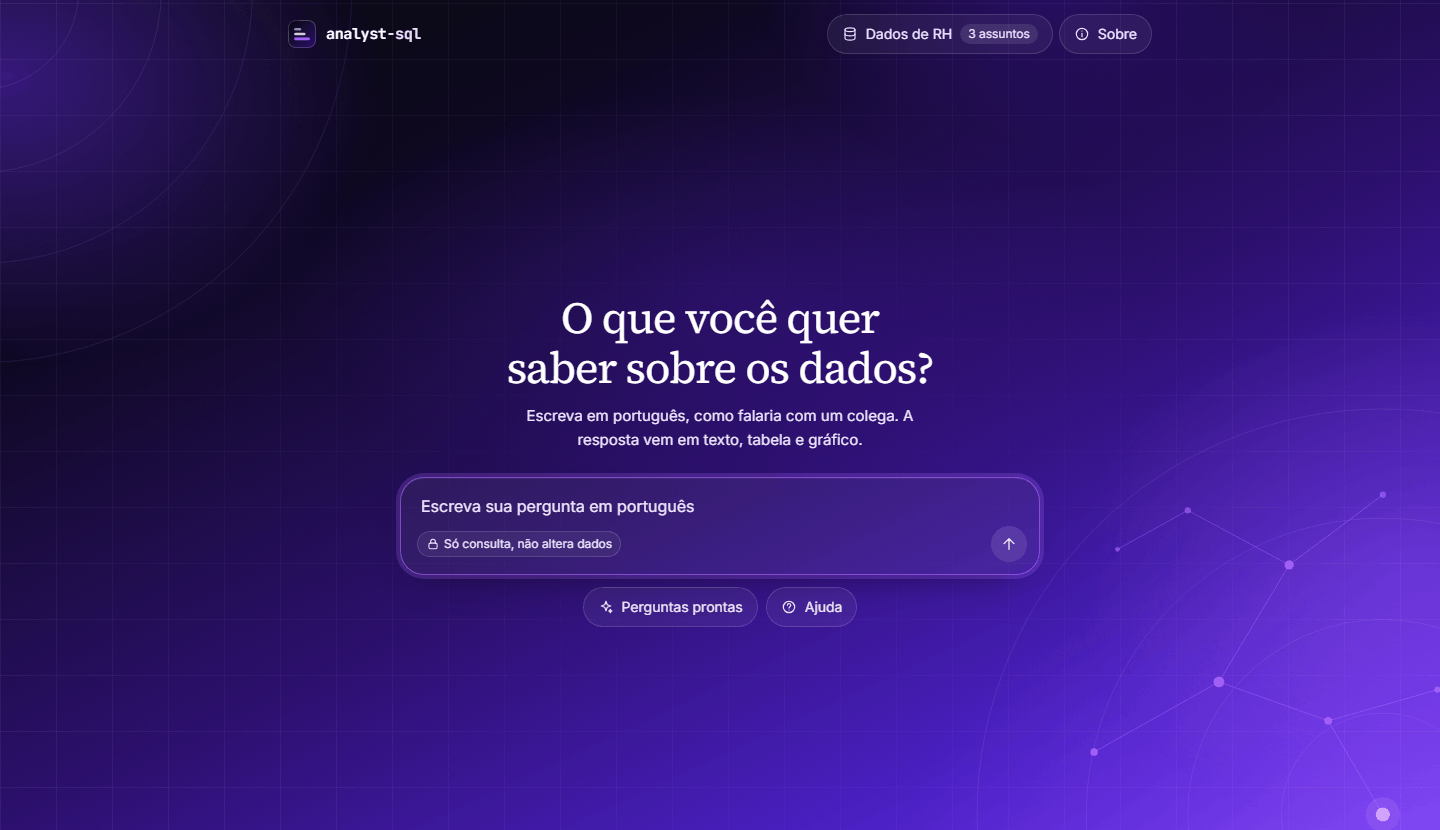
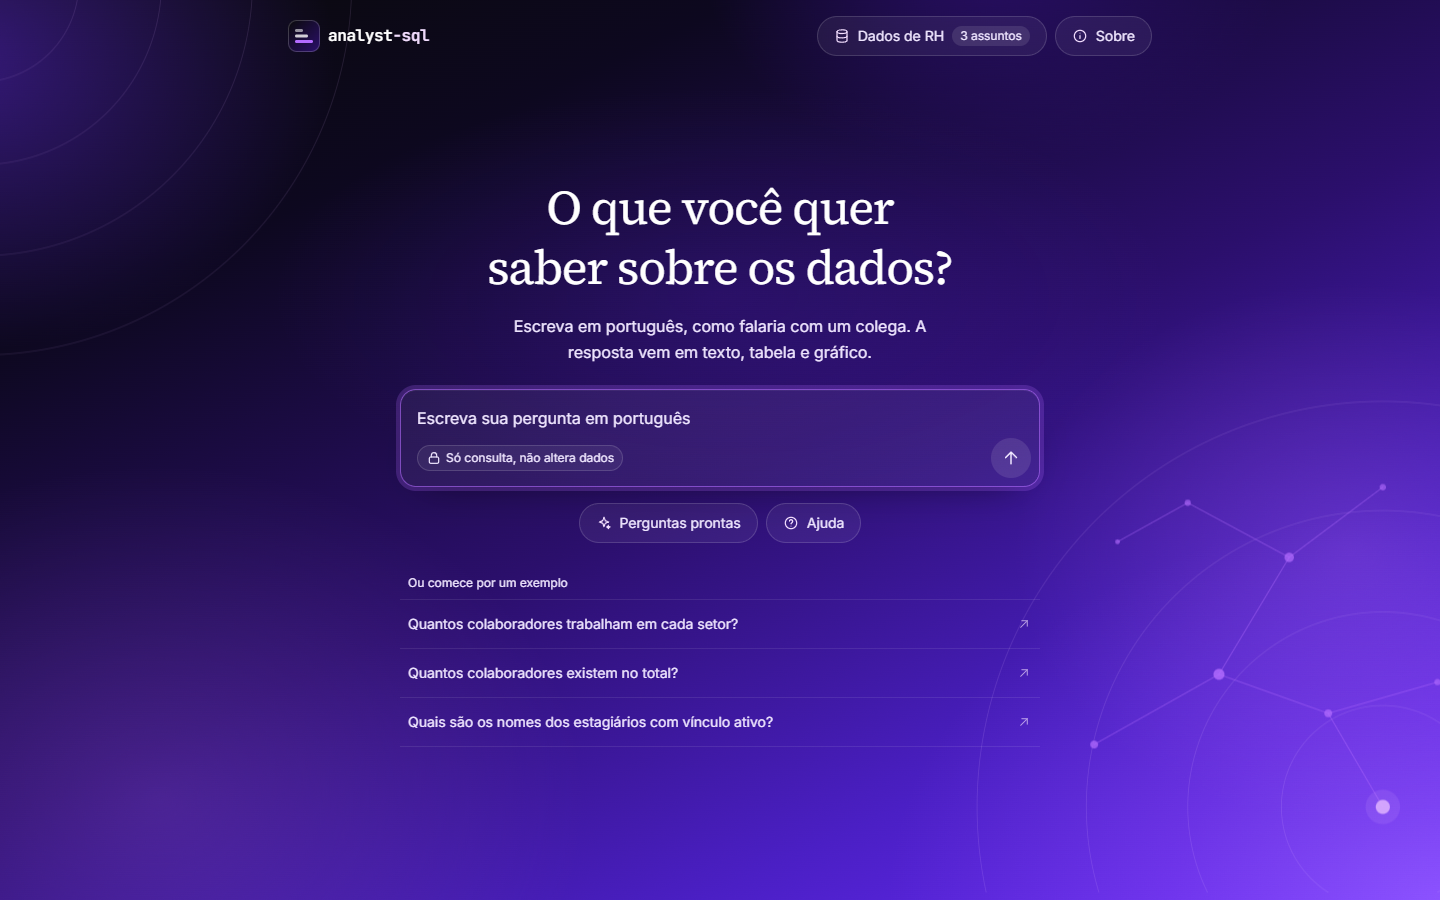
docs: add design guide and update README

diff --git a/docs/DESIGN.md b/docs/DESIGN.md
@@ -1,0 +1,135 @@
+# Design do analyst-sql
+
+Regras visuais da tela. Leia antes de mexer em qualquer componente. Os valores moram em
+`src/app/globals.css`. Os componentes usam só os nomes de lá ou a escala do Tailwind abaixo.
+
+A ideia: menos coisas, aplicadas sempre do mesmo jeito. Uma tela parece feita "no automático" quando cada
+peça tem um espaço diferente (10, 14, 18 px), cantos muito arredondados em tudo e nenhum ritmo. Aqui é o
+contrário: poucos valores, repetidos.
+
+## 1. Espaço: a regra de 8
+
+Todo espaço (padding, margin, gap) e todo tamanho de peça é **múltiplo de 8**.
+
+| px | Tailwind | Onde usar |
+|---:|---|---|
+| 4 | `1` | Só meio passo, dentro de peças pequenas: ícone ao lado do texto, selo, abas coladas |
+| 8 | `2` | Itens de uma lista, padding de chip, espaço entre botões vizinhos |
+| 16 | `4` | Padding padrão de cartão, campo e cabeçalho; espaço entre blocos de um painel |
+| 24 | `6` | Padding de painel e janela; espaço entre seções; entre pergunta e resposta |
+| 32 | `8` | Respiro grande dentro da tela inicial |
+| 48 / 64 | `12` / `16` | Entre áreas inteiras da página |
+
+**Proibido:** 2, 6, 10, 12, 14, 18, 20, 28 px (`0.5`, `1.5`, `2.5`, `3`, `3.5`, `5`, `7`) e valores soltos
+como `p-[13px]`. Se ficou apertado, suba um passo; se ficou largo, desça um. Não invente o meio.
+
+**Por que 12 também saiu:** 12 fica entre 8 e 16 e acaba virando o "quase" que desfaz o ritmo. Com só
+4 / 8 / 16 / 24 a diferença entre um nível e outro sempre se vê.
+
+### Tamanhos de peça
+
+- **Botões e campos:** altura 32 (`h-8`, só dentro de um grupo, como as abas), 40 (`h-10`, padrão) ou 48.
+  40 px é o mínimo para tocar com o dedo.
+- **Ícones:** 16 (`size-4`) no meio do texto, 20 (`size-5`) dentro de botões. O 20 é a única exceção da
+  regra, porque é o tamanho em que os ícones são desenhados.
+- **Logo:** 32 (`size={32}`).
+- **Cabeçalho:** 72 px (botão de 40 + 16 em cima e embaixo). Por isso o painel do cabeçalho abre em `top-18`.
+
+### Como alinhar
+
+- O padding de dentro é igual nos quatro lados, ou o de cima/baixo é **menor** que o dos lados
+  (`px-4 py-2`, `px-6 py-4`). Nunca o contrário.
+- Cabeçalho, corpo e rodapé de um mesmo painel usam o **mesmo** padding lateral, para o texto alinhar
+  numa coluna só (os painéis usam `px-6`; o campo de pergunta, `px-4`).
+- Quanto mais relacionadas as coisas, mais perto: dentro de um grupo 8, entre grupos 16 ou 24.
+
+## 2. Raio: só três
+
+| Nome | Valor | Onde |
+|---|---:|---|
+| `rounded-control` | 8 px | Botões quadrados, abas, blocos de código, chips |
+| `rounded-card` | 16 px | Cartões, tabela, painéis, janela, campo de pergunta, bolha da pergunta |
+| `rounded-pill` | redondo | Botões redondos (enviar, fechar), selos |
+
+**Peça dentro de peça:** o raio de dentro é o raio de fora **menos** o espaço entre as duas. Exemplo: as
+abas do resultado ficam num trilho `rounded-control` (8) com `p-1` (4), então cada aba usa
+`rounded-[calc(var(--r-control)-var(--space-1))]` (4). Se os dois raios forem iguais, a curva de dentro
+parece "gorda" e o desenho fica torto.
+
+Não crie um quarto raio. Não use `rounded-lg`, `rounded-xl`, `rounded-2xl` nem valor solto
+(o logo, `rounded-[28%]`, é a única exceção: é desenho, não interface).
+
+## 3. Texto
+
+Só os tamanhos da escala do Tailwind. Nada de `text-[15px]`.
+
+| Classe | px | Onde |
+|---|---:|---|
+| `text-xs` | 12 | Selos, legendas, rodapés, marquinhas de tipo |
+| `text-sm` | 14 | Painéis, tabela, botões, SQL, etapas do andamento |
+| `text-base` | 16 | Campo de pergunta, bolha da pergunta, subtítulo |
+| `text-lg` | 18 | A resposta do assistente (o texto principal da tela) |
+| `text-4xl` / `text-5xl` | 36 / 48 | Título da tela inicial (celular / computador) |
+
+Títulos em serifa (`font-serif`), texto em sans, marca e dados em mono.
+Altura de linha em múltiplo de 4: `leading-6` (24) no texto corrido, `leading-7` (28) na resposta.
+
+## 4. O que a resposta mostra
+
+- **Enquanto espera:** as quatro etapas do agente, ao vivo (escrever a busca, conferir, consultar, responder).
+  Os nomes ficam em `stepLabel` (`lib/ui/friendly.ts`).
+- **Um número só** (uma linha, uma coluna numérica): número grande em serifa, aba "Número".
+- **Rótulo + valor** (2 a 30 linhas): barras. O rótulo nunca é cortado se houver espaço.
+- **O resto:** tabela. A busca (SQL) é sempre a última aba.
+- **Rodapé do cartão:** quanto tempo levou e, se houve correção, em qual tentativa.
+
+## 5. Janelas
+
+As quatro janelas (Perguntas prontas, Ajuda, Dados, Sobre) usam a mesma moldura, `Modal`: título em serifa,
+uma frase de introdução, botão de fechar, corpo que rola e rodapé opcional. Três larguras: `sm` (texto),
+`md` (listas e cartões), `lg` (o diagrama do banco).
+
+**Janela não rola no computador.** O conteúdo precisa caber inteiro numa tela de 1366×768. Não coube? Ponha os
+cartões lado a lado, encurte o texto ou tire o que já existe em outro lugar. (No celular, com os cartões
+empilhados, a rolagem é aceita.)
+
+Dentro delas, o conteúdo se separa em **cartões com forma**, não em texto corrido:
+
+- **Cartão** (`.card`): uma faixa de título (ícone no quadradinho + título em serifa, fundo `bg-white/[0.04]`,
+  fio embaixo) e linhas separadas por fios (`divide-y divide-line/60`). No máximo **dois níveis**: cartão e o
+  que está dentro dele. Nunca cartão dentro de cartão.
+- **Ícone no quadradinho** (`IconTile`): 32 px, raio 8. A cor diz o papel: roxo = assunto ou ligação,
+  amarelo = código (chave), verde = pode / seguro, vermelho = não faz, cinza = informação comum.
+  A cor de destaque não vai em tudo: só onde sinaliza alguma coisa.
+- **Pergunta clicável**: sempre `QuestionRow` (ícone opcional, texto, selo opcional e seta), igual em toda parte.
+- **Um botão por janela**, no máximo, e no rodapé.
+
+### O diagrama do banco (Dados)
+
+- Cada tabela é um cartão; cada coluna é uma linha de 40 px com ícone do tipo, nome e explicação.
+- Ordem das linhas: o **código** (chave) primeiro, depois as **ligações**, depois as informações.
+- A linha entre dois cartões sai do código de um e chega na ligação do outro, com "1" e "vários".
+  As alturas do cabeçalho (80) e das linhas (40) são fixas justamente para a linha acertar o lugar:
+  mudou uma, mude as constantes `HEADER` e `ROW` em `DatabasePanel.tsx`.
+- Em cima, a legenda "Como ler o desenho" é uma faixa só, com as mesmas formas e cores do diagrama.
+- Todo termo técnico vem com a palavra simples: "caixa" (tabela), "código" (chave), "ligação".
+
+**Não use** dentro de janelas: degradê em cartão, brilho (`shadow` colorida), grade de blocos de tamanhos
+diferentes, desenhos sem informação (gráficos de mentira, fundo de pontinhos), animação que não para.
+Toda forma precisa dizer alguma coisa.
+
+## 6. Cor, fundo e movimento
+
+Continuam valendo as regras do `CLAUDE.md` (gradiente, cores da marca, contraste AA 4,5:1).
+Movimento: 150 ms (`--duration`) para estados, entradas sobem 8 px. O fundo se mexe de leve (manchas que
+derivam, uma luz que atravessa a tela e o desenho que flutua), em voltas de 18 a 30 s e só com `transform`.
+Nada pisca. Com "reduzir movimento" ligado, nada anda.
+
+## Checklist antes de terminar uma mudança na tela
+
+- [ ] Nenhum `0.5`, `1.5`, `2.5`, `3`, `3.5`, `5`, `7` nem `[NNpx]` em espaço ou tamanho:
+      `grep -rnE '\b(p|px|py|pt|pb|pl|pr|m|mx|my|mt|mb|gap|space-[xy])-(0\.5|1\.5|2\.5|3|3\.5|5|7)\b' src/components`
+- [ ] Só `rounded-control`, `rounded-card` ou `rounded-pill`.
+- [ ] Peça dentro de peça com raio menor.
+- [ ] Botão clicável com pelo menos 40 px.
+- [ ] Mexeu numa cor? Conferiu o contraste.

diff --git a/README.md b/README.md
@@ -7,7 +7,27 @@ precisar saber SQL.
 Projeto do programa Futures (Softplan). Feito com Next.js, React, TypeScript, Tailwind e MySQL, e uma IA (Gemini ou Claude)
 para escrever as buscas.
 
-![Tela inicial](docs/img/home.png)
+![Tela inicial: o campo de pergunta, os botões Perguntas prontas e Ajuda e três exemplos para começar](docs/img/home.png)
+
+## O que aparece na tela
+
+Enquanto trabalha, o assistente mostra **em que etapa está** (escrevendo a busca, conferindo se é segura, consultando os
+dados, escrevendo a resposta). Se a primeira busca falhar e ele precisar corrigir, isso também aparece.
+
+![Andamento da resposta, etapa por etapa](docs/img/progresso.png)
+
+A resposta vem em português, com o resultado em três abas: **Gráfico**, **Tabela** e **Busca (SQL)**, a busca exata que
+rodou no banco, para quem quiser conferir. Embaixo fica quanto tempo levou.
+
+![Resposta com gráfico de barras dos colaboradores por setor](docs/img/resultado.png)
+
+O botão **Dados de RH**, no cabeçalho, abre um mapa do que dá para consultar: cada assunto, suas informações e como
+eles se ligam, em linguagem simples (os nomes técnicos ficam num trecho recolhido, para quem conhece bancos de dados).
+
+![Janela Dados de RH com os três assuntos e suas ligações](docs/img/dados.png)
+
+Também há **Perguntas prontas** (exemplos por assunto, para clicar), **Ajuda** (como perguntar bem, o que ele não faz e
+as palavras que aparecem na tela), **Sobre** (o que é, para que serve e como usar com segurança) e **Nova conversa**.
 
 ## Como funciona
 
@@ -23,6 +43,11 @@ pergunta ─► IA escreve o SQL ─► validador confere ─► MySQL (só leit
 4. O **validador** garante que é só uma consulta de leitura. Se não for, a busca é bloqueada.
 5. A busca roda no banco com um usuário que **só pode ler**. Se der erro, o erro volta para a IA corrigir.
 6. A IA explica o resultado em português simples e a tela mostra o texto, a tabela, o gráfico e a busca usada.
+
+A rota `POST /api/ask` não espera tudo terminar para responder: ela envia **uma linha JSON por etapa**
+(`{"progress": {"step": "writing", "attempt": 1}}`, depois `checking`, `running`, `explaining`) e, no fim,
+`{"result": ...}` ou `{"error": "..."}`. É isso que permite à tela mostrar o andamento. O agente avisa cada etapa pela
+opção `onStep` de `answerQuestion`.
 
 ## Rodando na sua máquina
 
@@ -52,9 +77,10 @@ npm run dev                    # abre em http://localhost:3000
 | `src/lib/sql/validator.ts` | O validador: só deixa passar consultas de leitura |
 | `src/lib/db/` | Conexão com o MySQL, execução das buscas e leitura da estrutura do banco |
 | `src/lib/llm/client.ts` | Fala com a IA (Gemini ou Claude), com tempo limite e novas tentativas |
-| `src/app/api/` | `POST /api/ask` (a pergunta) e `GET /api/schema` (o que dá para consultar) |
-| `src/app/page.tsx`, `src/components/` | A tela: boas-vindas, conversa, resultado (gráfico, tabela, busca) e os painéis: Dados e Sobre no cabeçalho; Perguntas prontas e Ajuda sob o campo de pergunta |
-| `src/lib/ui/`, `src/hooks/` | Lógica da tela que não é desenho (testável) |
+| `src/app/api/` | `POST /api/ask` (a pergunta; responde aos poucos, mostrando cada etapa) e `GET /api/schema` (o que dá para consultar) |
+| `src/app/page.tsx`, `src/components/` | A tela: boas-vindas, conversa, andamento, resultado (gráfico, tabela, busca) e as janelas (`Modal`): Dados e Sobre no cabeçalho; Perguntas prontas e Ajuda sob o campo de pergunta |
+| `src/lib/ui/`, `src/hooks/` | Lógica da tela que não é desenho (testável): textos amigáveis e nomes das etapas, gráfico, leitura da resposta aos poucos |
+| `docs/DESIGN.md` | As regras visuais: espaços em múltiplos de 8, três raios de canto, cores e contraste |
 | `eval/questions.json`, `src/scripts/evaluate.ts` | As 47 perguntas com resposta certa e o script que mede o acerto |
 | `db/setup.sql`, `compose.yaml` | O banco de exemplo (RH de uma instituição) e o usuário só de leitura |
 
@@ -73,6 +99,14 @@ Por isso há **camadas independentes**: se uma falhar, as outras seguram.
 5. **Borda da API:** confere a origem, o formato e o tamanho; limita 10 perguntas por minuto; nunca devolve o erro técnico.
 
 Detalhes e limitações em [docs/SECURITY.md](docs/SECURITY.md).
+
+## Documentação
+
+| Arquivo | Assunto |
+|---|---|
+| [docs/SECURITY.md](docs/SECURITY.md) | As camadas de segurança, o que cada uma bloqueia e o que fica de fora |
+| [docs/DESIGN.md](docs/DESIGN.md) | Regras da tela (espaço, raio, cores). Leia antes de mexer nos componentes |
+| [CLAUDE.md](CLAUDE.md) / [AGENTS.md](AGENTS.md) | Orientações para quem programa com ajuda de IA neste projeto |
 
 ## Testes e taxa de acerto
 

diff --git a/CLAUDE.md b/CLAUDE.md
@@ -22,8 +22,8 @@ Next.js 16 + React 19 + TypeScript + Tailwind 4. Projeto do programa Futures (So
 | `src/lib/llm/client.ts` | Cliente da IA (Anthropic ou OpenAI-compatível/Gemini) |
 | `src/lib/http/` | Rate limit, conferência da requisição, erro → status HTTP |
 | `src/lib/ui/`, `src/hooks/` | Lógica da tela que não é desenho (friendly, chart, sql-highlight, ask-client) |
-| `src/app/api/` | `POST /api/ask` e `GET /api/schema` |
-| `src/components/` | A tela (`Greeting`, `Turn`, `Composer`, `ResultPanel` `QuickActions` (Perguntas prontas e Ajuda, sob o campo de pergunta) e `Header` (Dados e Sobre); os quatro painéis usam `HeaderPanel`) |
+| `src/app/api/` | `POST /api/ask` (responde aos poucos, uma linha JSON por etapa do agente e o resultado no fim) e `GET /api/schema` |
+| `src/components/` | A tela (`Greeting`, `Turn`, `Composer`, `ResultPanel`, `QuickActions` (Perguntas prontas e Ajuda, sob o campo de pergunta) e `Header` (Dados e Sobre); as quatro janelas usam `Modal` e as perguntas clicáveis usam `QuestionRow`) |
 | `src/scripts/`, `eval/` | `evaluate.ts` + `questions.json` (taxa de acerto), `check-llm.ts` |
 | `db/setup.sql`, `compose.yaml` | Banco de exemplo e usuário `agent_readonly` |
 
@@ -56,6 +56,9 @@ npm run evaluate     # taxa de acerto real (gasta chamadas da IA)
 - Interface: chat enxuto, tema escuro, gradiente `#0A0A0A → #0D081F → #2B0F6B`. Cores da marca: `#6A2CFF`, `#B36BFF` (só
   preenchimentos) e `#E0B3FF` (texto em destaque). Tudo em `globals.css`. Mexeu numa cor? Confira o contraste (AA, 4,5:1).
   A página não rola; só a área de mensagens rola.
+- **Espaço e raio: leia `docs/DESIGN.md` antes de mexer na tela.** Regra de 8: todo espaço e tamanho é
+  múltiplo de 8 (4 só como meio passo em peças pequenas). Raios só `rounded-control` (8), `rounded-card` (16)
+  e `rounded-pill`. Nada de `1.5`, `2.5`, `3`, `3.5`, `5` nem `[13px]`.
 
 ## Grafo de conhecimento (graphify)
 
